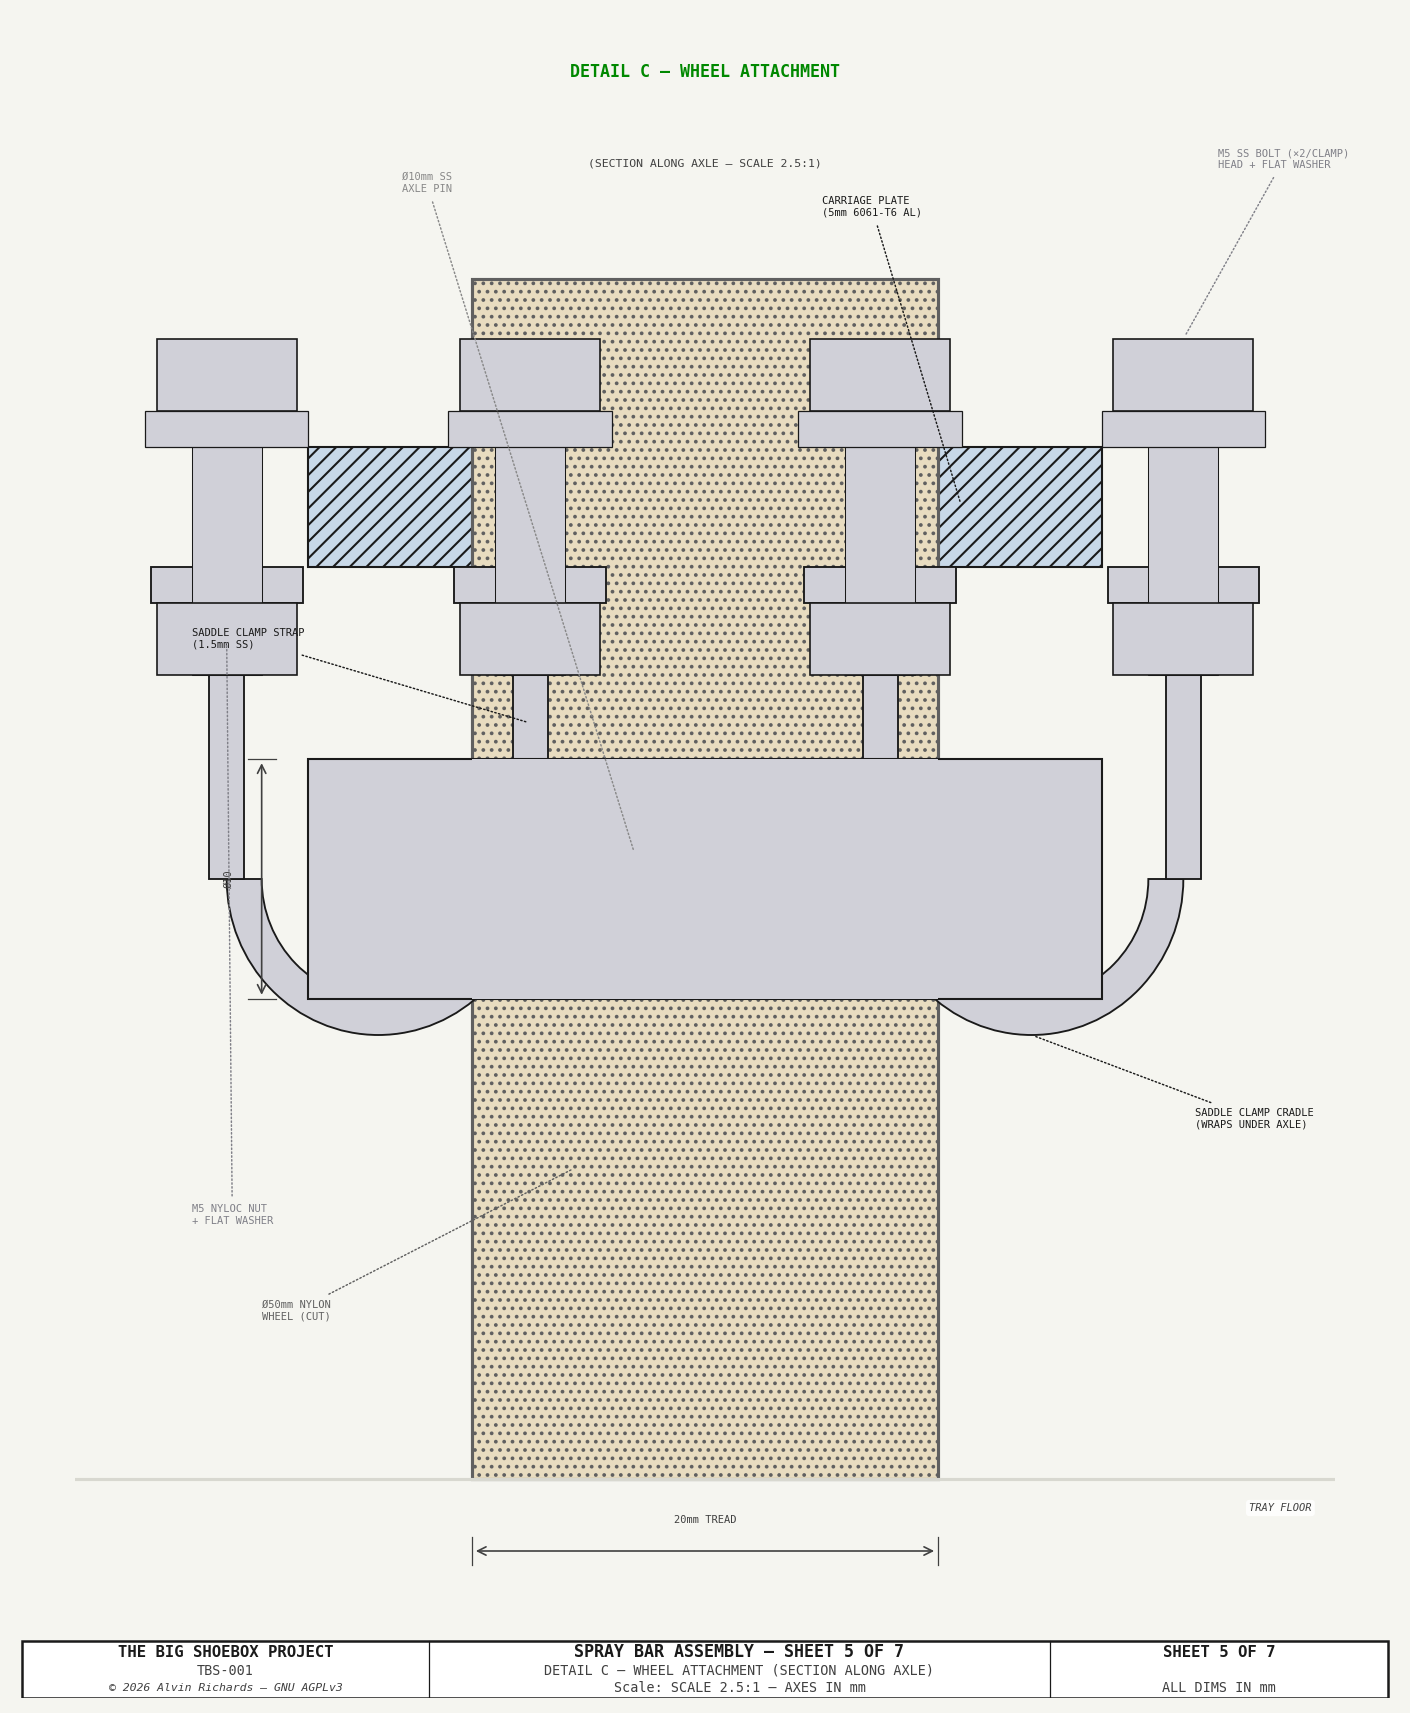
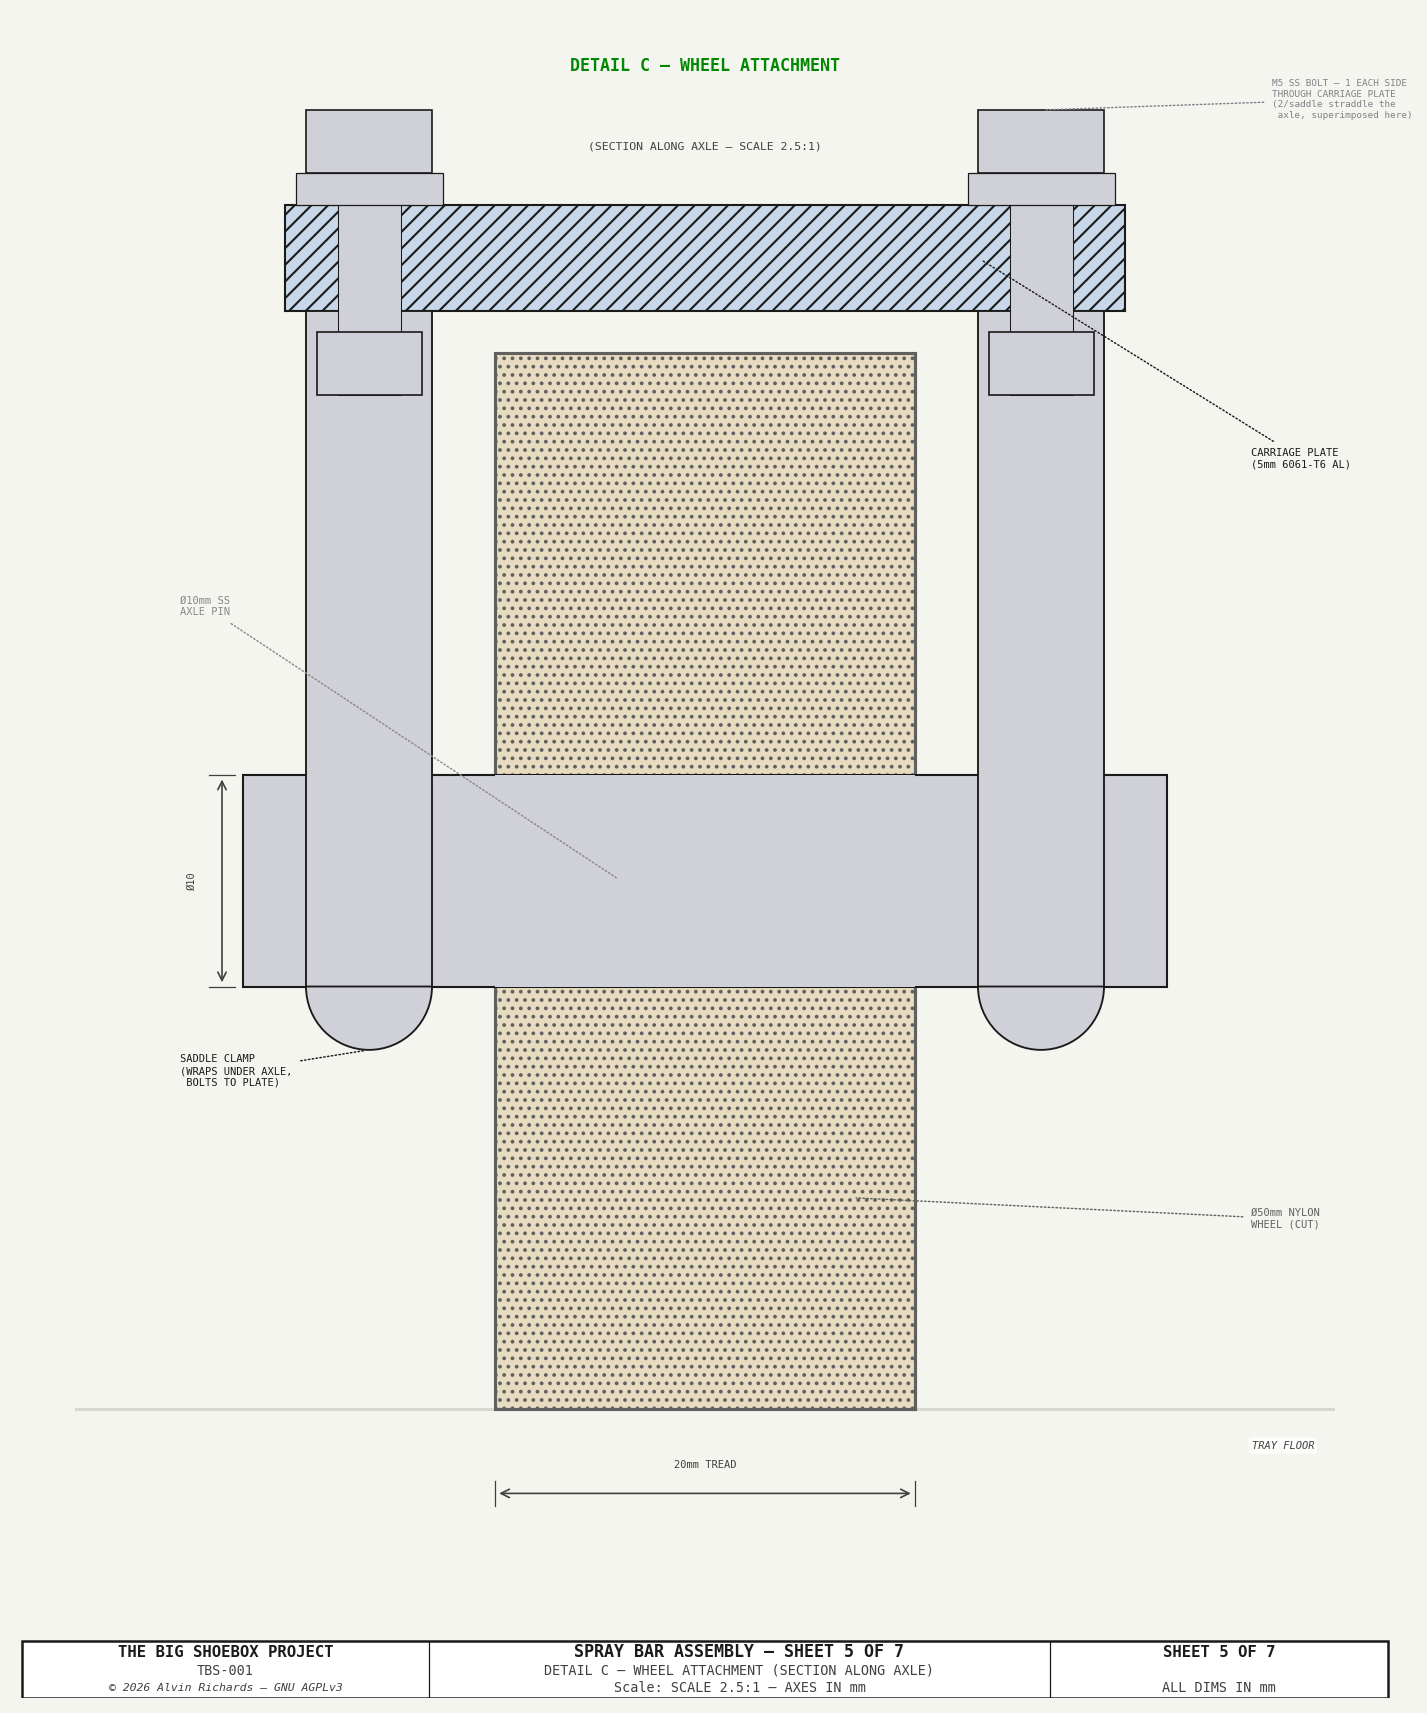
spray-bar Sheet 5: fix wheel-attachment section — 1 bolt each side thru plate
The Detail C section was wrong: it spread 4 bolts to the saddle-cradle ears,
so bolts ran THROUGH the wheel (inner pair) and into thin air past the plate
(outer pair). For a slice along the axle there should be exactly ONE visible
bolt each side, through the carriage plate beside the wheel.

Redrawn:
- carriage plate on top (full 40mm width), wheel hanging below it on the axle,
  tray at the bottom — the physically sensible stack;
- ONE saddle clamp flanking each side of the wheel (at SGAP=16 on the axle),
  cradling under the Ø10 pin and bolting UP through the plate;
- exactly ONE bolt each side, through the solid plate, clear of the wheel
  (each saddle's 2 bolts straddle the axle into the page and superimpose here);
- relabelled accordingly.

NOTE / follow-up: Sheet 2 and the 3D _carriage still use the older cramped
arrangement (plate at axle level, plate_z=az+2, the Ø50 wheel passing up
through the plate). Sheet 5 now shows the wheel below the plate. These should
be reconciled — see response.

diff --git a/src/generators/generate_spray_bar_diagram.py b/src/generators/generate_spray_bar_diagram.py
@@ -1271,8 +1271,8 @@ def draw_sheet5():
     ax_w.set_facecolor(C_BG)
     ax_w.axis("off")
 
-    w_xl, w_xr = -27, 27
-    w_yb, w_yt = -30, 36
+    w_xl, w_xr = -30, 30
+    w_yb, w_yt = -9, 66
     ax_w.set_xlim(w_xl, w_xr)
     ax_w.set_ylim(w_yb, w_yt)
 
@@ -1286,117 +1286,95 @@ def draw_sheet5():
               **FONT, zorder=20)
 
     C_NYLON_FILL = "#E8DCC0"
+    C_BOLT_FILL  = "#D0D0D8"
 
-    # Geometry (2:1 scale, coordinates in mm at 2:1)
-    plate_bot_y = 13
-    plate_h = 5
-    axle_r = 5
+    # ── Geometry (mm; the wheel HANGS BELOW the carriage plate, axle at its
+    #    centre — the beam clamps on top of the plate, so the wheel must clear it) ─
+    TRAY_Y    = 0                      # tray surface the wheel rolls on
+    WHEEL_D   = 50
+    AXLE_Z    = TRAY_Y + WHEEL_D / 2   # 25 — axle = wheel centre
+    axle_r    = 5
+    PLATE_BOT = TRAY_Y + WHEEL_D + 2   # 52 — plate just clears the wheel top
+    plate_h   = 5
+    PLATE_TOP = PLATE_BOT + plate_h    # 57
+    SGAP      = 16                     # saddle/bolt offset from the wheel centre
+    SW        = 6                      # saddle strap width along the axle
+    AXLE_HALF = 22                     # axle protrudes beyond the wheel to carry saddles
+    washer_t, bolt_head_h, nut_h = 1.5, 3, 3
+    bolt_head_top = PLATE_TOP + washer_t + bolt_head_h
 
-    # ── Carriage plate ───────────────────────────────────────────────────
-    ax_w.add_patch(Rectangle((-17, plate_bot_y), 34, plate_h,
-                   fc=C_ALUM_FILL, ec=C_FRAME, lw=1.0, hatch="///", zorder=3))
+    # ── Tray floor ──────────────────────────────────────────────────────
+    ax_w.plot([w_xl, w_xr], [TRAY_Y, TRAY_Y], color=C_TRAY, lw=1.5, zorder=2)
+    ax_w.text(w_xr - 1, TRAY_Y - 1.5, "TRAY FLOOR", ha="right", va="top",
+              fontsize=5, color=C_DIM, style="italic",
+              bbox=dict(boxstyle="round,pad=0.3", fc="white", ec="none", alpha=0.85),
+              **FONT, zorder=15)
 
-    # ── Nylon wheel body ─────────────────────────────────────────────────
-    ax_w.add_patch(Rectangle((-10, -25), 20, 50,
+    # ── Nylon wheel (cut through centre — 20mm tread × Ø50, sitting on the tray) ─
+    ax_w.add_patch(Rectangle((-10, TRAY_Y), 20, WHEEL_D,
                    fc=C_NYLON_FILL, ec=C_WHEEL, lw=1.5, hatch="...", zorder=3))
 
-    # ── Axle pin ─────────────────────────────────────────────────────────
-    ax_w.add_patch(Rectangle((-17, -axle_r), 34, 2 * axle_r,
+    # ── Carriage plate above the wheel (full carriage width = 40mm) ───────
+    ax_w.add_patch(Rectangle((-20, PLATE_BOT), 40, plate_h,
+                   fc=C_ALUM_FILL, ec=C_FRAME, lw=1.0, hatch="///", zorder=4))
+
+    # ── Axle pin (Ø10, protrudes beyond the wheel to carry the saddles) ───
+    ax_w.add_patch(Rectangle((-AXLE_HALF, AXLE_Z - axle_r), 2 * AXLE_HALF, 2 * axle_r,
                    fc="#D0D0D8", ec=C_FRAME, lw=1.0, zorder=5))
-    ax_w.add_patch(Rectangle((-10, -axle_r), 20, 2 * axle_r,
+    ax_w.add_patch(Rectangle((-10, AXLE_Z - axle_r), 20, 2 * axle_r,
                    fc="#D0D0D8", ec="none", zorder=5))
 
-    # ── Axle-retention saddle clamps (conduit-style: a curved SS strap cradles
-    #    UNDER the Ø10 axle and bolts down through the plate via a foot each side
-    #    — one clamp flanking each face of the wheel). A curved cradle, NOT a
-    #    flat U-clamp bar; matches Sheet 2 + the 3D "Axle Saddle". ──
-    C_BOLT_FILL = "#D0D0D8"
-    washer_t, bolt_head_h, nut_h = 1.5, 3, 3
-    plate_top_y = plate_bot_y + plate_h
-    sad_t  = 1.5                              # SS strap thickness
-    sad_ri = axle_r                           # cradle hugs the Ø10 axle
-    sad_ro = sad_ri + sad_t                   # cradle outer radius (6.5)
-    foot_len = 5
-    clamp_cx_r, clamp_cx_l = 14, -14
-    bolt_head_top = plate_top_y + washer_t + bolt_head_h
-    nut_bot = plate_bot_y - sad_t - nut_h
-
-    for cx in [clamp_cx_r, clamp_cx_l]:
-        # curved cradle wrapping under the axle (drawn behind the Ø10 pin, which
-        # nests into it)
-        ax_w.add_patch(Wedge((cx, 0), sad_ro, 180, 360, width=sad_t,
-                       fc=C_UCLAMP, ec=C_FRAME, lw=0.9, zorder=4))
-        for sgn in (-1, 1):
-            ex = cx + sgn * sad_ro                       # strap at the cradle end
-            bx = ex                                       # bolt down through the foot
-            # strap rising from the cradle to the plate underside
-            ax_w.add_patch(Rectangle((ex - sad_t / 2, 0), sad_t, plate_bot_y,
-                           fc=C_UCLAMP, ec=C_FRAME, lw=0.9, zorder=4))
-            # flat foot against the plate underside
-            ax_w.add_patch(Rectangle((ex - (foot_len + sad_t) / 2, plate_bot_y - sad_t),
-                           foot_len + sad_t, sad_t,
-                           fc=C_UCLAMP, ec=C_FRAME, lw=0.9, zorder=4))
-            # M5 SS bolt: shaft through foot + plate, head + washer on top, nut below
-            ax_w.add_patch(Rectangle((bx - 1.5, nut_bot), 3, bolt_head_top - nut_bot,
-                           fc=C_BOLT_FILL, ec=C_FRAME, lw=0.5, zorder=7))
-            ax_w.add_patch(Rectangle((bx - 3, plate_top_y + washer_t), 6, bolt_head_h,
-                           fc=C_BOLT_FILL, ec=C_FRAME, lw=0.8, zorder=7))
-            ax_w.add_patch(Rectangle((bx - 3.5, plate_top_y), 7, washer_t,
-                           fc=C_BOLT_FILL, ec=C_FRAME, lw=0.6, zorder=7))
-            ax_w.add_patch(Rectangle((bx - 3, nut_bot), 6, nut_h,
-                           fc=C_BOLT_FILL, ec=C_FRAME, lw=0.8, zorder=7))
-
-    _bbox_w = dict(boxstyle="round,pad=0.3", fc="white", ec="none", alpha=0.85)
-
-    # ── Tray floor (axle at Z=27, tray surface at Z=2 → y=-25) ─────────
-    tray_y = -25
-    ax_w.plot([w_xl, w_xr], [tray_y, tray_y],
-              color=C_TRAY, lw=1.5, zorder=8)
-    ax_w.text(w_xr - 1, tray_y - 1, "TRAY FLOOR",
-              ha="right", va="top", fontsize=5, color=C_DIM,
-              style="italic", bbox=_bbox_w, **FONT, zorder=15)
+    # ── Axle-retention saddle clamps: ONE flanking each side of the wheel, at
+    #    SGAP along the axle. Each is an SS strap that cradles UNDER the Ø10 axle
+    #    and rises beside the wheel to bolt UP through the carriage plate. In this
+    #    section-along-the-axle there is exactly ONE visible bolt each side,
+    #    through the solid plate (each saddle has 2 bolts straddling the axle into
+    #    the page — they superimpose here). ──
+    nut_bot = PLATE_BOT - nut_h - 1
+    for sx_ in (SGAP, -SGAP):
+        # strap from just under the axle up to the plate (in front of the pin so
+        # the bracket reads continuous) + a rounded cradle cupping under the axle
+        ax_w.add_patch(Rectangle((sx_ - SW / 2, AXLE_Z - axle_r), SW,
+                       PLATE_BOT - (AXLE_Z - axle_r),
+                       fc=C_UCLAMP, ec=C_FRAME, lw=0.9, zorder=6))
+        ax_w.add_patch(Wedge((sx_, AXLE_Z - axle_r), SW / 2, 180, 360,
+                       fc=C_UCLAMP, ec=C_FRAME, lw=0.9, zorder=6))
+        # ONE M5 SS bolt through the carriage plate into the saddle foot
+        ax_w.add_patch(Rectangle((sx_ - 1.5, nut_bot), 3, bolt_head_top - nut_bot,
+                       fc=C_BOLT_FILL, ec=C_FRAME, lw=0.5, zorder=7))      # shank
+        ax_w.add_patch(Rectangle((sx_ - 3, PLATE_TOP + washer_t), 6, bolt_head_h,
+                       fc=C_BOLT_FILL, ec=C_FRAME, lw=0.8, zorder=7))       # head
+        ax_w.add_patch(Rectangle((sx_ - 3.5, PLATE_TOP), 7, washer_t,
+                       fc=C_BOLT_FILL, ec=C_FRAME, lw=0.6, zorder=7))       # washer
+        ax_w.add_patch(Rectangle((sx_ - 2.5, nut_bot), 5, nut_h,
+                       fc=C_BOLT_FILL, ec=C_FRAME, lw=0.8, zorder=7))       # nut
 
     # ── Labels ───────────────────────────────────────────────────────────
-    r_outer_bx = clamp_cx_r + sad_ro
-    l_outer_bx = clamp_cx_l - sad_ro
-    l_inner_ex = clamp_cx_l + sad_ro
+    leader(ax_w, SGAP, bolt_head_top, w_xr - 3, PLATE_TOP + 5,
+           "M5 SS BOLT — 1 EACH SIDE\nTHROUGH CARRIAGE PLATE\n(2/saddle straddle the\n axle, superimposed here)",
+           fs=4.5, color="#808088", font=FONT, zorder=20)
 
-    # Right side
-    leader(ax_w, r_outer_bx, bolt_head_top, w_xr - 5, 30,
-           "M5 SS BOLT (×2/CLAMP)\nHEAD + FLAT WASHER",
-           fs=5, color="#808088", font=FONT, zorder=20)
-
-    leader(ax_w, 11, plate_bot_y + plate_h / 2, w_xr - 22, 28,
+    leader(ax_w, 13, PLATE_BOT + plate_h / 2, w_xr - 4, PLATE_BOT - 7,
            "CARRIAGE PLATE\n(5mm 6061-T6 AL)",
            fs=5, color=C_FRAME, font=FONT, zorder=20)
 
-    leader(ax_w, -3, 1, -13, 29,
+    leader(ax_w, -4, AXLE_Z, w_xl + 5, AXLE_Z + 13,
            "Ø10mm SS\nAXLE PIN",
            fs=5, color="#888888", font=FONT, zorder=20)
 
-    leader(ax_w, clamp_cx_r, -sad_ro, w_xr - 6, -10,
-           "SADDLE CLAMP CRADLE\n(WRAPS UNDER AXLE)",
+    leader(ax_w, -SGAP, AXLE_Z - axle_r - SW / 2, w_xl + 5, AXLE_Z - 9,
+           "SADDLE CLAMP\n(WRAPS UNDER AXLE,\n BOLTS TO PLATE)",
            fs=5, color=C_FRAME, font=FONT, zorder=20)
 
-    # Left side
-    leader(ax_w, l_inner_ex, plate_bot_y / 2, w_xl + 5, 10,
-           "SADDLE CLAMP STRAP\n(1.5mm SS)",
-           fs=5, color=C_FRAME, font=FONT, zorder=20)
-
-    leader(ax_w, l_outer_bx, nut_bot + nut_h / 2, w_xl + 5, -14,
-           "M5 NYLOC NUT\n+ FLAT WASHER",
-           fs=5, color="#808088", font=FONT, zorder=20)
-
-    leader(ax_w, -5.5, -12, w_xl + 8, -18,
+    leader(ax_w, 7, 10, w_xr - 4, 9,
            "Ø50mm NYLON\nWHEEL (CUT)",
            fs=5, color=C_WHEEL, font=FONT, zorder=20)
 
     # ── Dimensions ───────────────────────────────────────────────────────
-    draw_dim_h(ax_w, -10, 10, w_yb + 2,
-               "20mm TREAD", offset=2, fs=5, font=FONT)
+    draw_dim_h(ax_w, -10, 10, TRAY_Y - 4, "20mm TREAD", offset=2, fs=5, font=FONT)
 
-    draw_dim_v(ax_w, w_xl + 8, -axle_r, axle_r,
-               "Ø10", offset=2, fs=5, font=FONT)
+    draw_dim_v(ax_w, w_xl + 7, AXLE_Z - axle_r, AXLE_Z + axle_r, "Ø10",
+               offset=2, fs=5, font=FONT)
 
     # ── Title block ──────────────────────────────────────────────────────
     ax_tb = fig.add_axes([0.04, 0.005, 0.92, 0.045])
